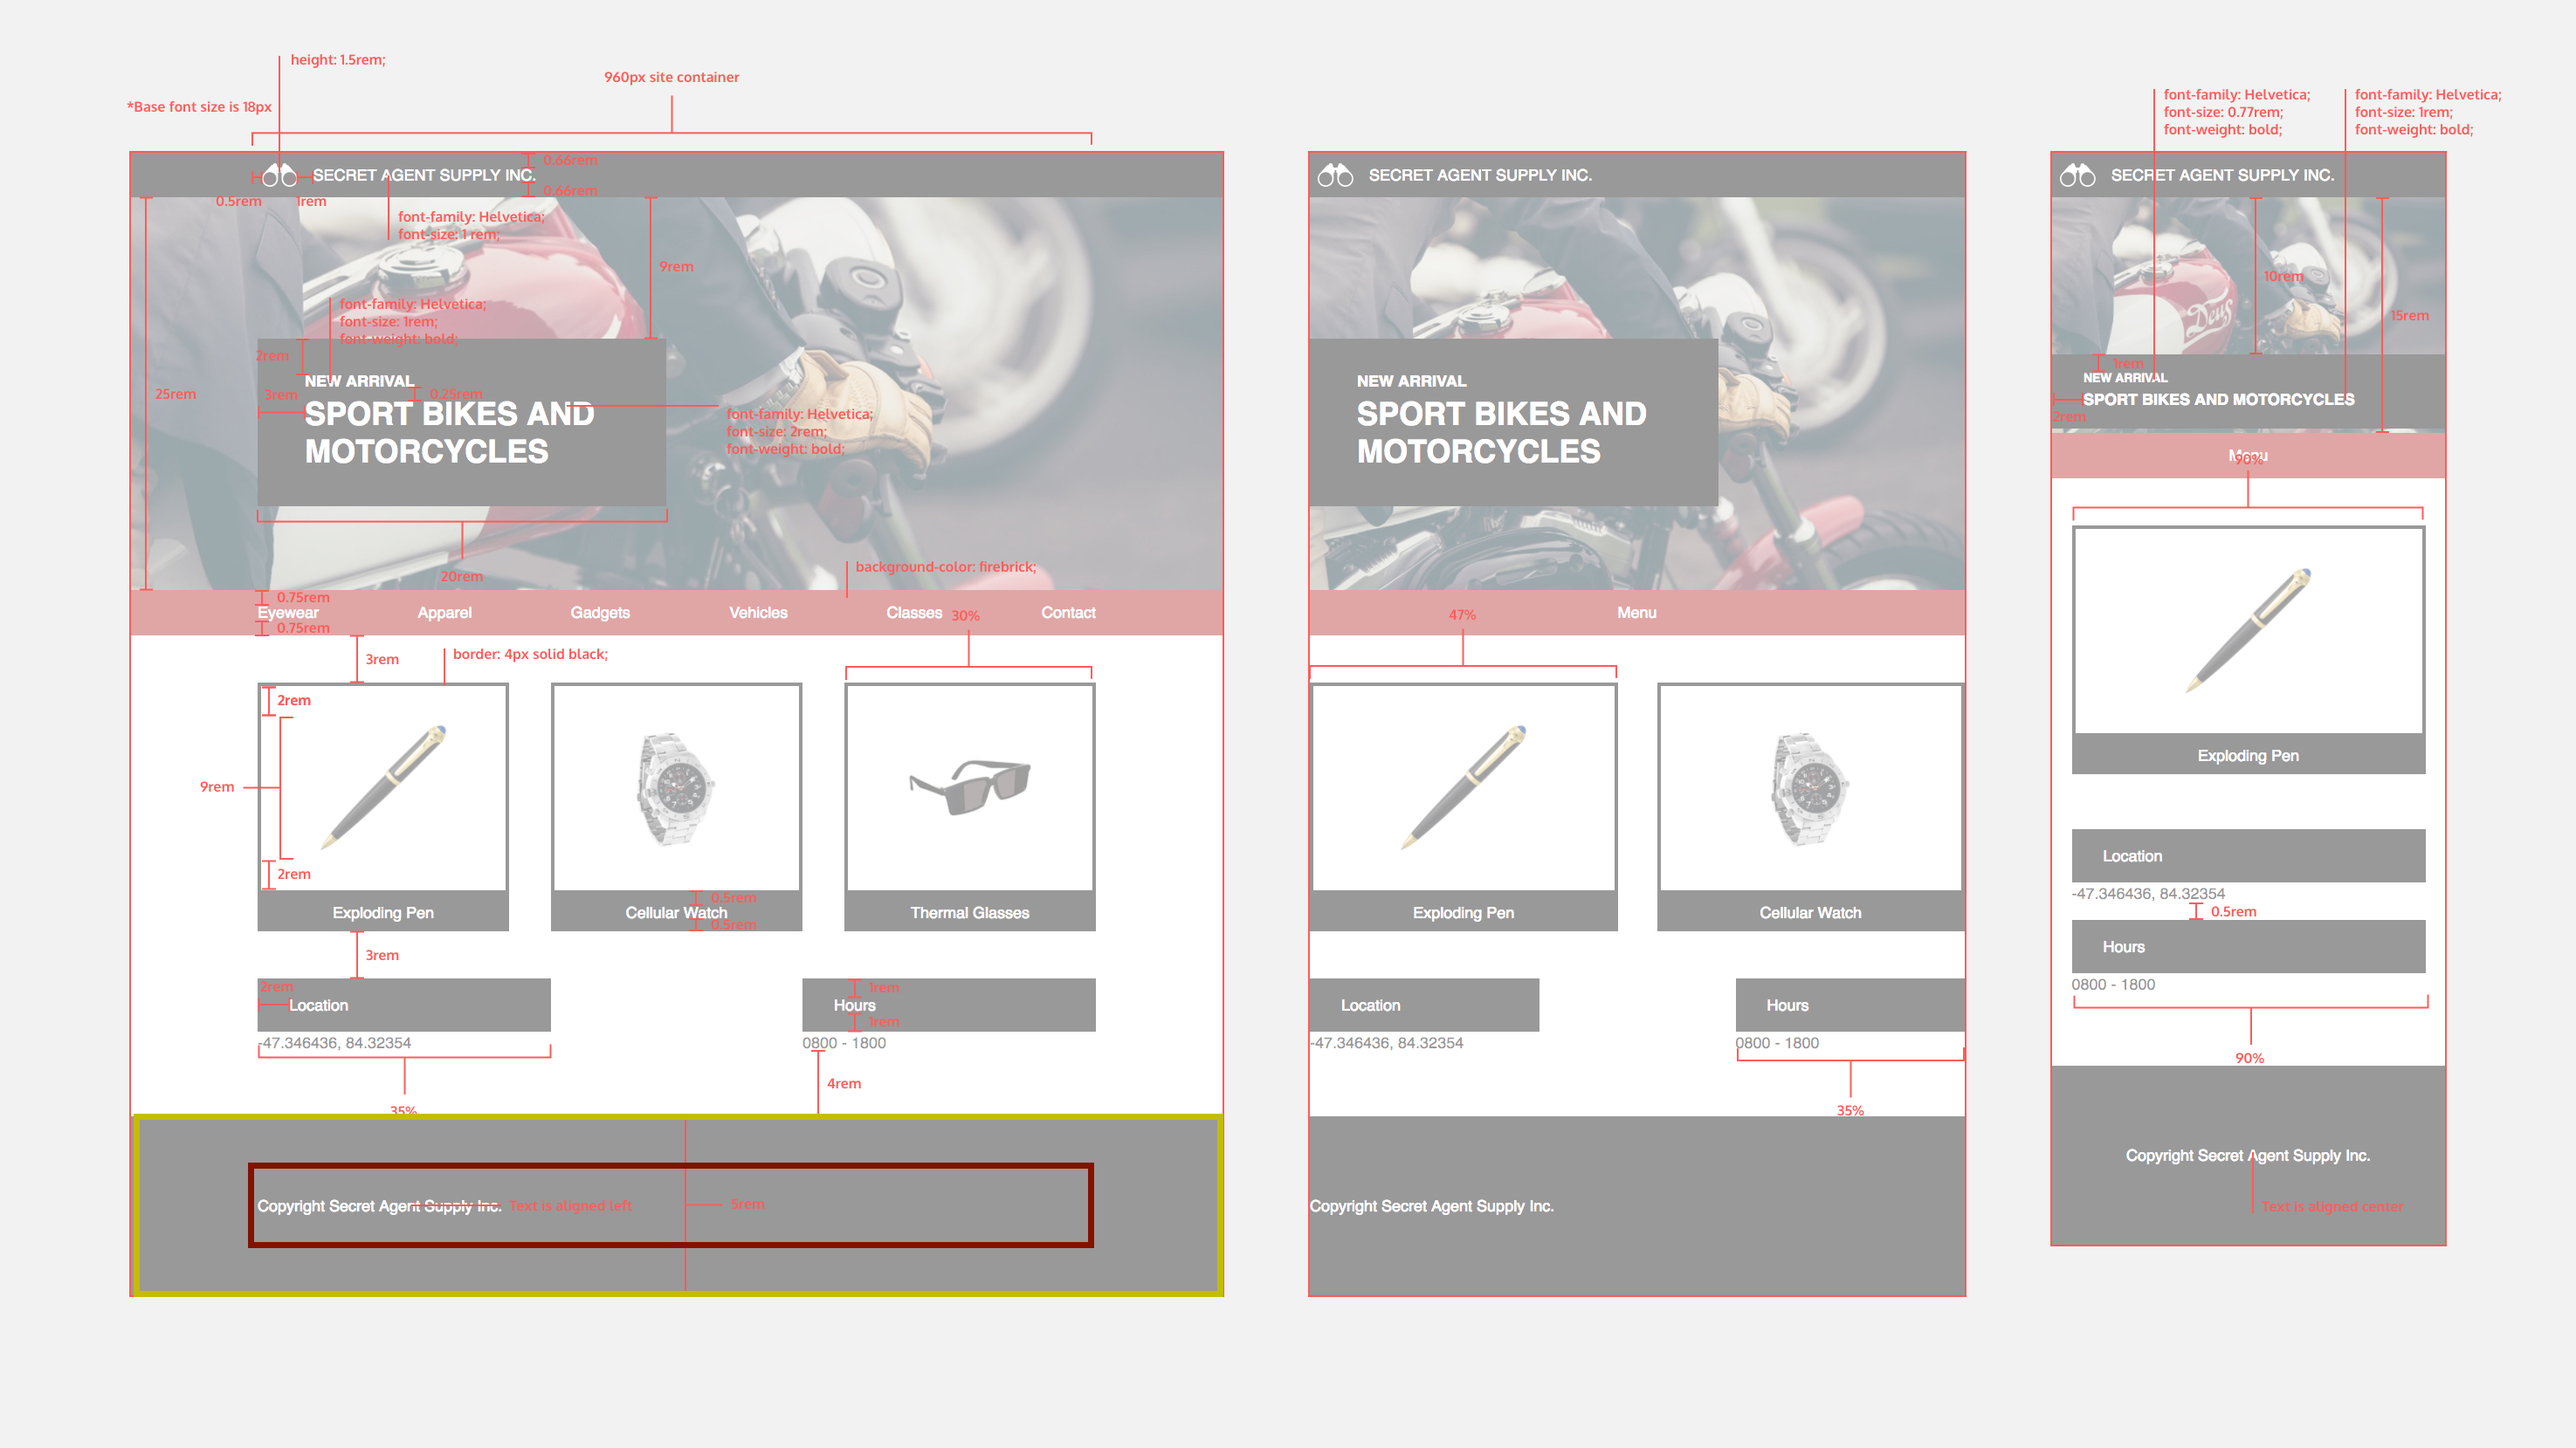
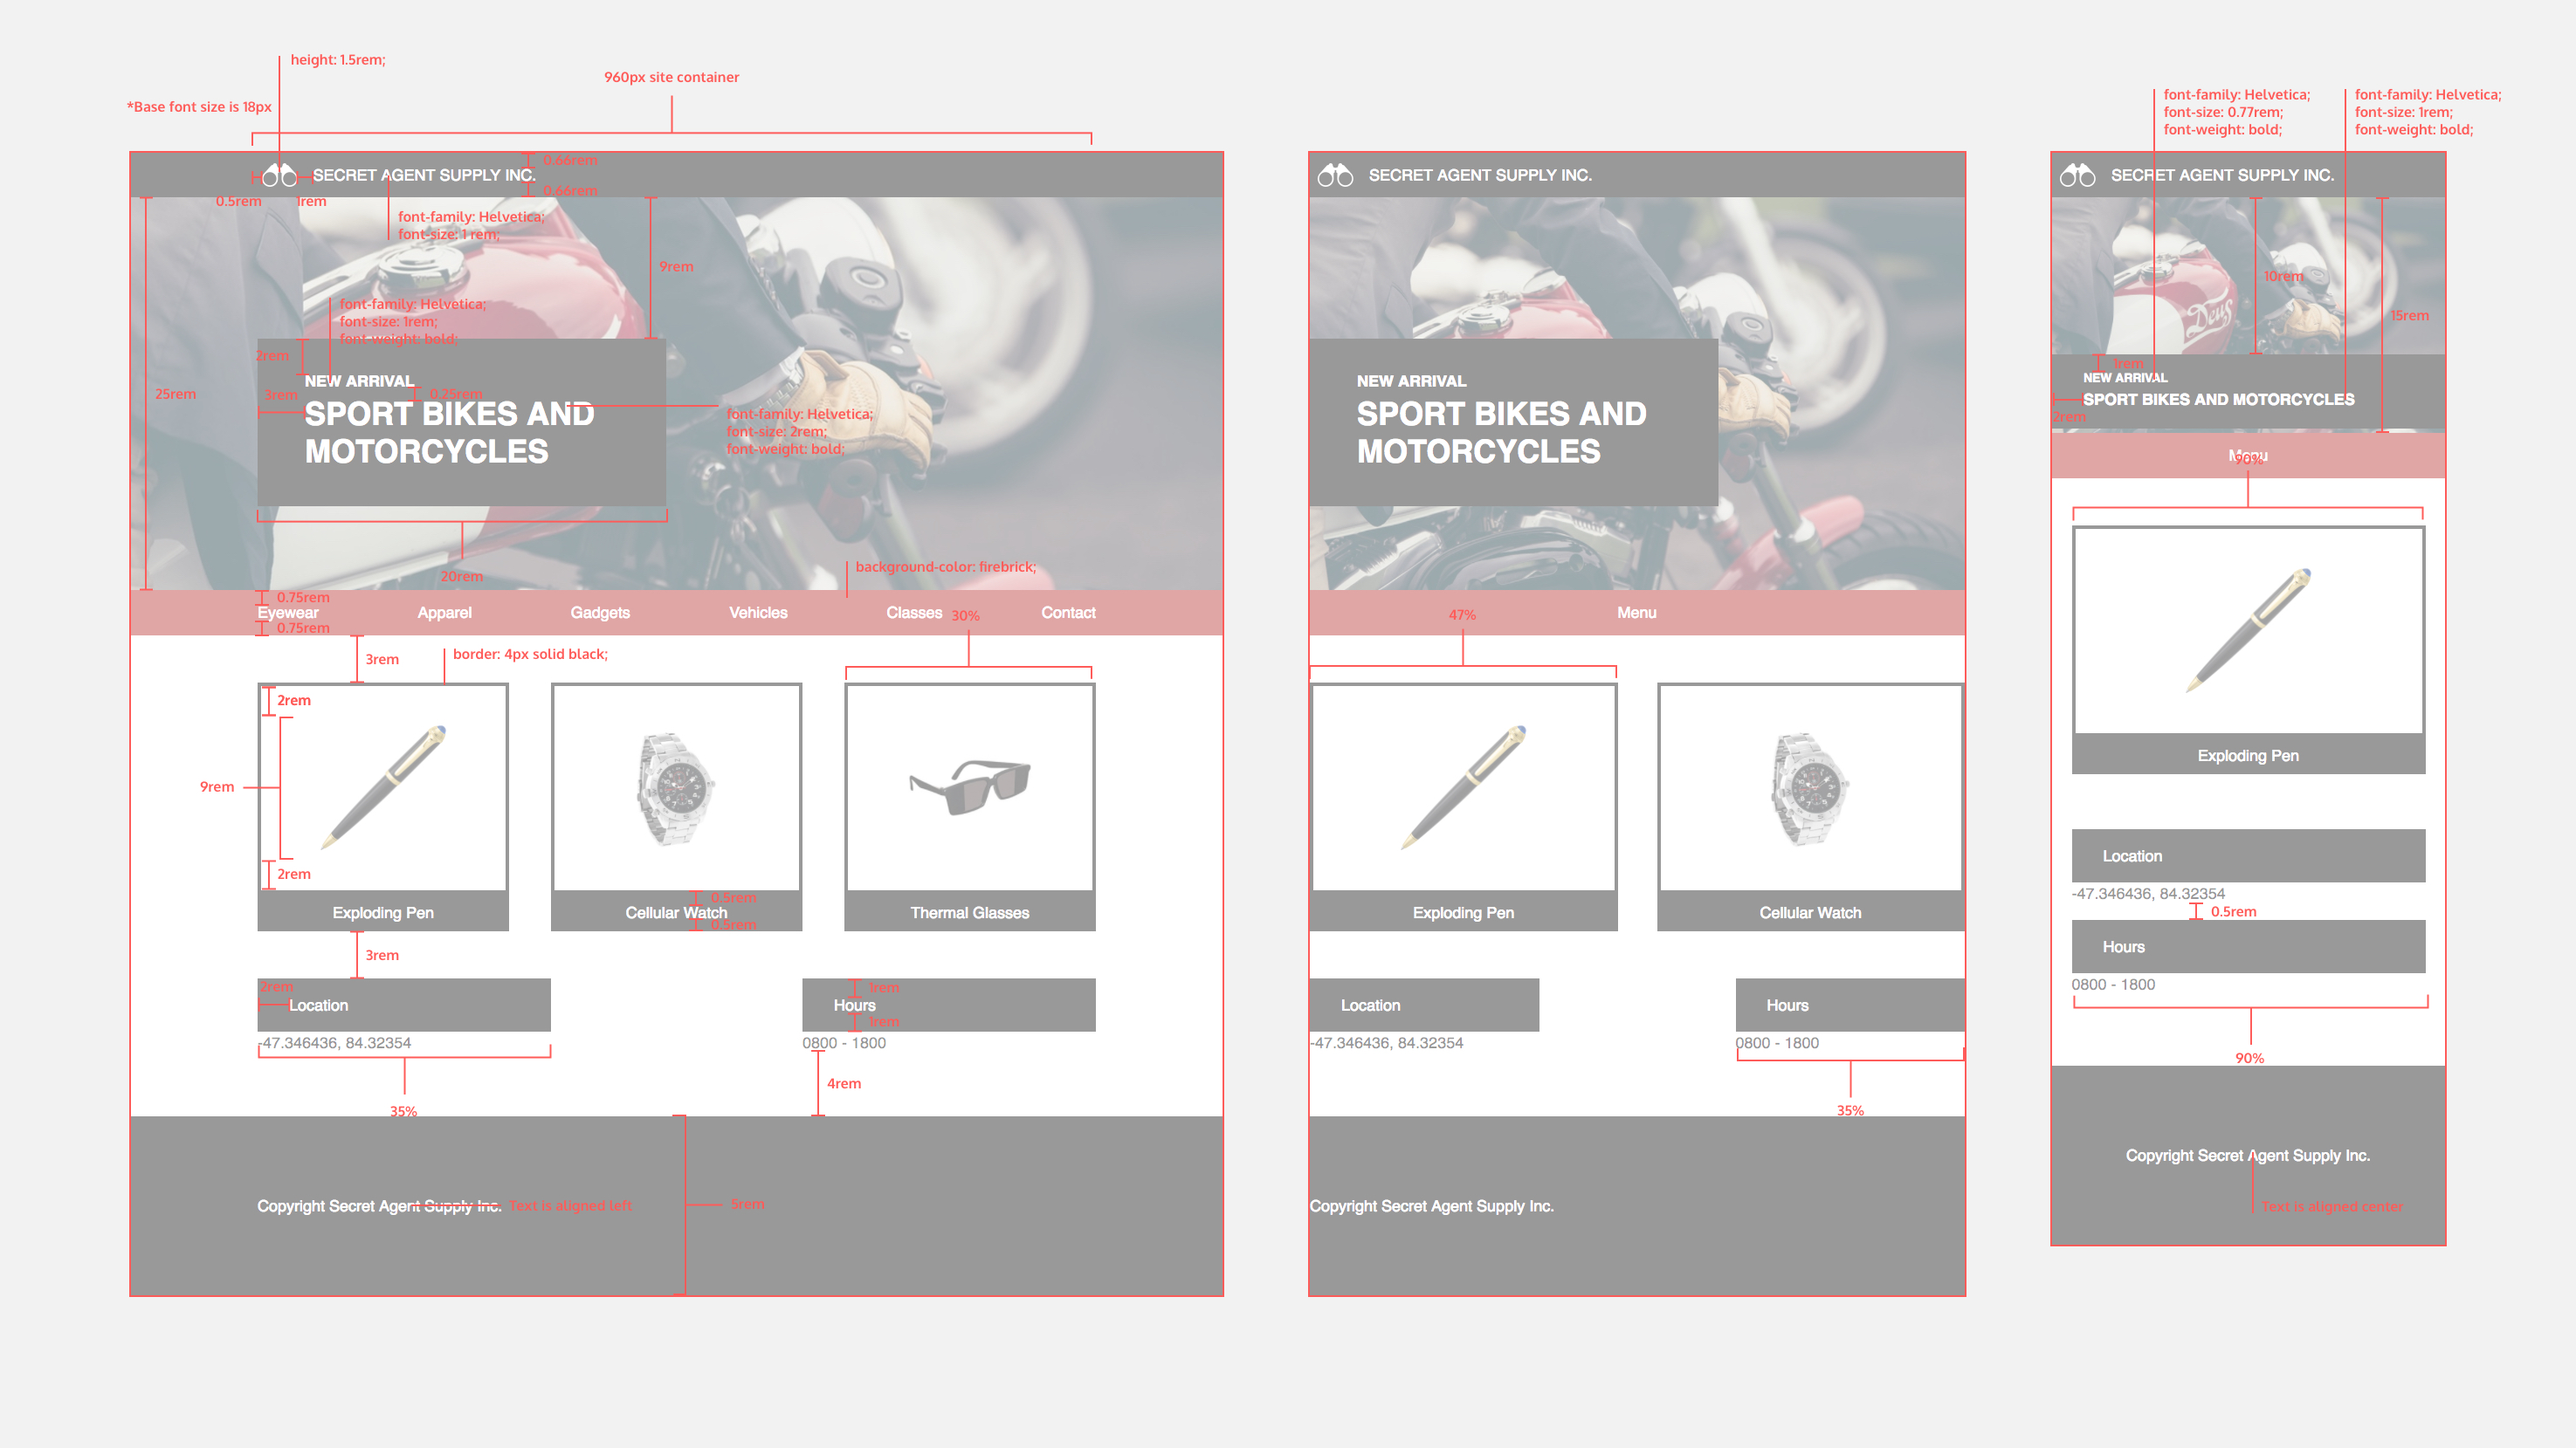
project completed

Changed region(s): [[0.0312, 0.7685, 0.4678, 0.8608], [0.0624, 0.8915, 0.4678, 0.9222]]

diff --git a/index.html b/index.html
@@ -15,7 +15,7 @@
 
       <div class="header">
         <img src="file:///Users/marcwyss/Desktop/MarcDev/Projects/Secret_Agent_Supply/assets/images/logo.png" alt="logo">
-        <span>SECRET AGENT SUPPLY INC.</span>
+        <span id="header-title">SECRET AGENT SUPPLY INC.</span>
       </div>
 
     </div>
@@ -34,7 +34,7 @@
     </div>
 
       <nav>
-        <ul class="navigation">
+        <ul class="desktopnavigation">
           <li><a href="#">Eyewear</a></li>
           <li><a href="#">Apparel</a></li>
           <li><a href="#">Gadgets</a></li>
@@ -42,25 +42,31 @@
           <li><a href="#">Glasses</a></li>
           <li><a href="#">Contact</a></li>
         </ul>
+
+        <ul class="mobilenavigation">
+          <li><a href="#">Menu</a></li>
+        </ul>
       </nav>
+
+      <!-- ITEMS FOR SALE -->
 
       <div class="items-container-container">
         <div class="items-container">
-          <div class="item">
+          <div class="item pen">
             <div class="image">
               <img src="file:///Users/marcwyss/Desktop/MarcDev/Projects/Secret_Agent_Supply/assets/images/pen.png" alt="pen image">
             </div>
             <span>Exploding Pen</span>
           </div>
 
-          <div class="item">
+          <div class="item watch">
             <div class="image">
               <img src="file:///Users/marcwyss/Desktop/MarcDev/Projects/Secret_Agent_Supply/assets/images/watch.png" alt="pen image">
             </div>
             <span>Cellular Watch</span>
           </div>
 
-          <div class="item">
+          <div class="item glasses">
             <div class="image">
               <img src="file:///Users/marcwyss/Desktop/MarcDev/Projects/Secret_Agent_Supply/assets/images/glasses.png" alt="pen image">
             </div>

diff --git a/assets/css/style.css b/assets/css/style.css
@@ -115,6 +115,10 @@ nav ul {
   width: 100%
 }
 
+.mobilenavigation {
+  display: none;
+}
+
 /* ITEMS-ON-SALE */
 
 .items-container-container {
@@ -206,5 +210,68 @@ nav ul {
   max-width: 960px;
   width: 100%;
   align-items: center;
-  justify-content: flex-start;
+}
+
+/* MEDIA QUERIES */
+
+
+
+@media screen and (max-width: 1024px) {
+  html {
+    font-size: 16px;
+  }
+  nav .desktopnavigation {
+    display: none;
+  }
+  nav .mobilenavigation {
+    display: flex;
+  }
+  nav ul {
+    justify-content: center;
+  }
+  .items-container-container .items-container .watch {
+    display: none;
+  }
+  .items-container .pen,
+  .items-container .glasses {
+    width: 47%;
+  }
+}
+
+@media screen and (max-width: 470px) {
+  .main-banner {
+    height: 15rem;
+  }
+  .title-container .title {
+    top: 10rem;
+    padding: 1rem 2rem;
+    height: 3rem;
+    width: 100%;
+  }
+  h1 {
+    font-size: 1rem;
+  }
+  h4 {
+    font-size: 0.77rem;
+  }
+  .items-container {
+    justify-content: center;
+  }
+  .items-container-container .items-container .glasses {
+    display: none;
+  }
+  .items-container-container .items-container .pen {
+    width: 90%;
+  }
+  .info-container .info {
+    flex-direction: column;
+    align-items: center;
+  }
+  .info-container .info .specific-info {
+    width: 90%;
+    padding-top: 0.5rem;
+  }
+  .footer-container .footer {
+    text-align: center;
+  }
 }
